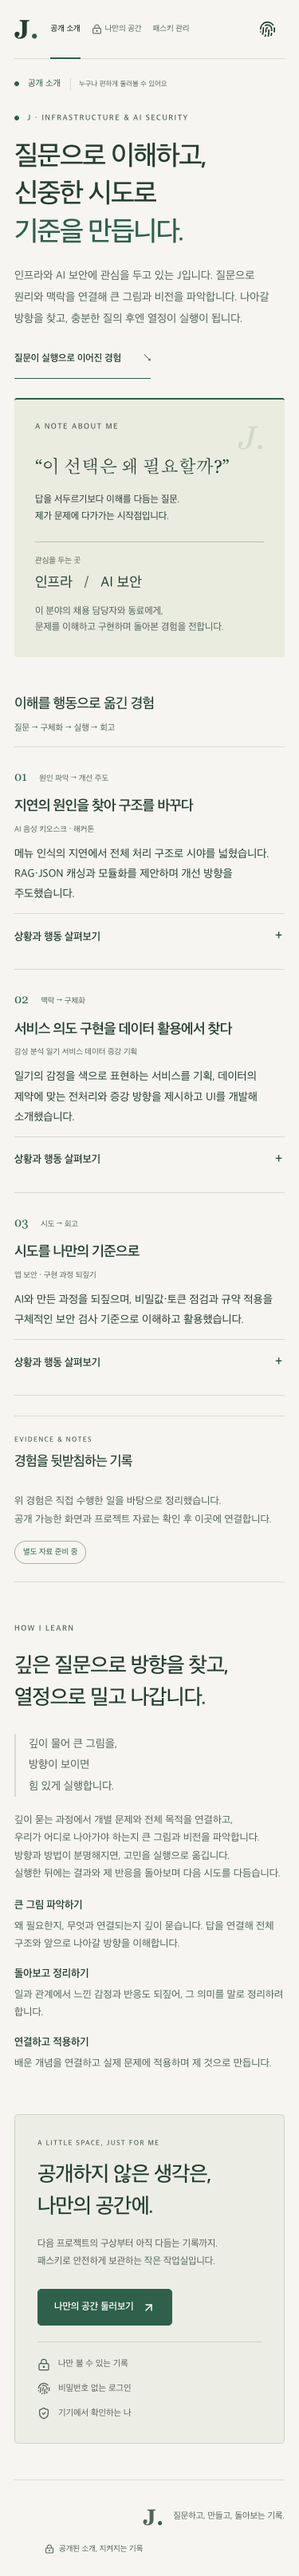
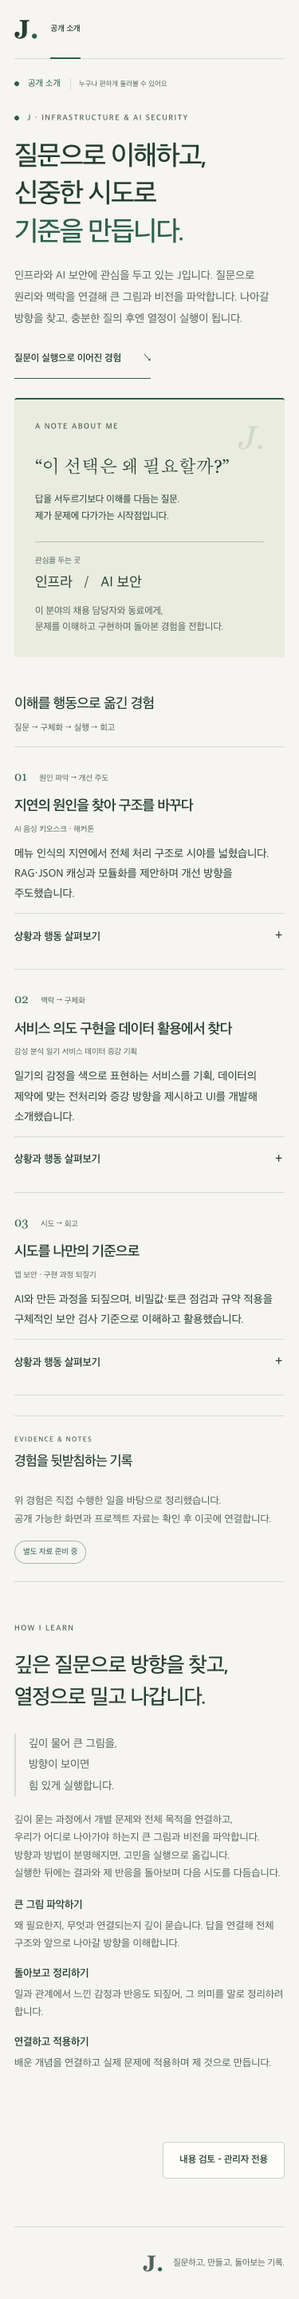
Simplify public page to a single administrator review entry

diff --git a/src/client/styles.css b/src/client/styles.css
@@ -32,16 +32,7 @@ main:focus,h1[tabindex="-1"]:focus { outline:none; }
 .original-profile summary { min-height:44px; }
 .original-profile .text-link { min-height:44px; align-items:center; }
 .original-profile .approach { padding-top:50px; }
-.private-entry { display:grid; grid-template-columns:145px 1fr auto; gap:30px; align-items:center; margin:0 0 70px; padding:42px 40px; border:1px solid #cdd5c4; border-radius:5px; background:#eceee5; }
-.entry-art { width:130px; height:145px; display:grid; place-items:center; position:relative; }
-.art-ring { border:1px solid #b8c6ae; border-radius:50%; height:116px; width:116px; display:grid; place-items:center; color:var(--accent); transform:rotate(-12deg); }
-.art-ring:before { content:""; position:absolute; inset:-12px; border:1px dashed #c1cbb7; border-radius:50%; }
-.art-dot { width:13px; height:13px; border:3px solid #eceee5; background:var(--accent); border-radius:50%; position:absolute; top:20px; right:12px; }
-.entry-copy .eyebrow { font-size:9px; margin:0 0 12px; }
-.entry-copy h2 { font-size:29px; line-height:1.5; }
-.entry-copy>p:not(.eyebrow) { font-size:12px; color:var(--muted); margin:15px 0 23px; line-height:1.85; }
-.entry-notes { display:grid; gap:18px; padding-left:30px; border-left:1px solid #cdd5c4; font-size:11px; color:var(--muted); }
-.entry-notes span { display:flex; align-items:center; gap:10px; }
+.admin-review-entry { display:flex; justify-content:flex-end; margin:35px 0 60px; }
 .button { min-height:46px; padding:12px 20px; display:inline-flex; gap:10px; align-items:center; justify-content:center; font-size:12px; line-height:1.5; text-decoration:none; border-radius:5px; border:1px solid transparent; font-weight:600; transition:background .16s,box-shadow .16s; }
 .button.primary { background:var(--accent); color:#fff; border-color:var(--accent); }
 .button.primary:hover:not(:disabled) { background:#234e3c; box-shadow:0 3px 9px #253d3312; }
@@ -166,7 +157,7 @@ main:focus,h1[tabindex="-1"]:focus { outline:none; }
 .site-footer { margin-top:25px; min-height:85px; padding-block:25px; }
 .footer-security { display:flex; gap:6px; align-items:center; margin-left:auto; font-size:10px; color:var(--muted); }
 @media(min-width:1600px) { .app-header { min-height:96px; } .app-header nav a.active:after { bottom:-25px; } }
-@media(max-width:1050px) { .auth-page { gap:45px; grid-template-columns:1fr 390px; } .auth-intro h1 { font-size:37px; } .private-entry { grid-template-columns:110px 1fr; padding:35px 30px; } .entry-art { width:100px; } .art-ring { width:90px; height:90px; } .entry-notes { grid-column:2; display:flex; flex-wrap:wrap; padding:20px 0 0; border:0; } .keys-layout { grid-template-columns:1fr 310px; gap:25px; } .backup-callout { flex-wrap:wrap; } .backup-callout .button { margin-left:62px; } .private-card { padding:22px; } }
-@media(max-width:800px) { .wrap { width:calc(100% - 40px); } .app-header { gap:20px; min-height:78px; } .app-header nav { gap:18px; } .app-header nav a { font-size:11px; } .app-header nav a.active:after { bottom:-17px; } .header-end { margin-left:auto; } .auth-page { grid-template-columns:1fr; gap:30px; max-width:520px; padding:25px 0 55px; } .auth-intro .back-link { margin-bottom:20px; } .auth-intro h1 { font-size:36px; } .auth-intro>p:not(.eyebrow) { font-size:13px; } .auth-principle { display:none; } .auth-card { padding:27px; } .keys-layout { grid-template-columns:1fr; } .add-key-card { max-width:none; } .private-grid { grid-template-columns:1fr; } .private-card { padding:25px; } .private-card>p:not(.eyebrow) { font-size:13px; } .private-card .note-icon { margin-bottom:20px; } .vault-bottom { align-items:flex-start; flex-direction:column; } .page-heading { padding-top:36px; } .page-heading h1 { font-size:30px; } .heading-with-action { align-items:flex-start; } .private-pill { margin-top:10px; } .key-count { font-size:33px; gap:7px; padding-left:16px; } .key-count span { font-size:10px; } .backup-callout { padding:22px; gap:14px; align-items:flex-start; } .backup-callout>div:nth-child(2) { flex:1; } .backup-callout p { font-size:12px; line-height:1.9; } .backup-callout .button { margin-left:59px; } .original-profile .intro { padding-top:25px; } .original-profile .intro h1 { font-size:38px; } .original-profile .card-summary { font-size:14px; } .entry-copy h2 { font-size:27px; } .entry-notes { gap:14px; } .entry-copy>p:not(.eyebrow) { font-size:12px; } .private-entry { margin-bottom:45px; } .site-footer { flex-wrap:wrap; } .site-footer .footer-security { margin-left:auto; } }
-@media(max-width:520px) { .wrap { width:calc(100% - 36px); } .app-header { gap:15px; min-height:74px; flex-wrap:wrap; } .app-header .wordmark { font-size:33px; } .app-header nav { gap:14px; flex:1; } .app-header nav a { font-size:10px; white-space:nowrap; gap:4px; } .app-header nav a.active:after { bottom:-15px; } .header-login,.logout-button { min-width:44px; width:44px; } .header-login>span,.header-login>svg:last-child,.logout-button>span { display:none; } .header-login>svg:first-child,.logout-button>svg { width:21px; height:21px; } .header-end { margin:0; } .public-label { padding-top:22px; } .public-label>span:last-child { font-size:9px; margin-left:7px; padding-left:10px; } .original-profile .intro h1 { font-size:35px; } .original-profile .field-note { padding:26px; } .private-entry { grid-template-columns:1fr; padding:28px; gap:20px; } .entry-art { display:none; } .entry-notes { grid-column:auto; border-top:1px solid #cdd5c4; padding-top:18px; display:grid; gap:12px; } .entry-copy h2 { font-size:27px; } .footer-security { flex-basis:100%; padding-left:38px; } .heading-with-action { flex-wrap:wrap; gap:10px; } .private-pill { margin:0; } .vault-strip { flex-wrap:wrap; gap:4px; } .locked-panel { padding:30px 18px; } .locked-panel h2 { font-size:25px; } .locked-panel>p { font-size:11px; } .privacy-line { font-size:9px; align-items:flex-start; } .privacy-line svg { flex-shrink:0; } .page-heading h1 { font-size:28px; } .page-heading p:not(.eyebrow) { font-size:12px; } .auth-card { padding:25px; } .auth-intro h1 { font-size:35px; } .backup-callout .button { margin-left:0; width:100%; } .backup-callout .callout-icon { width:39px; height:39px; } .key-count { padding-left:0; border:0; font-size:28px; } .list-heading span { font-size:9px; } .key-info h3 { font-size:13px; } .passkey-list li { gap:11px; } .key-icon { width:43px; height:43px; } }
+@media(max-width:1050px) { .auth-page { gap:45px; grid-template-columns:1fr 390px; } .auth-intro h1 { font-size:37px; } .keys-layout { grid-template-columns:1fr 310px; gap:25px; } .backup-callout { flex-wrap:wrap; } .backup-callout .button { margin-left:62px; } .private-card { padding:22px; } }
+@media(max-width:800px) { .wrap { width:calc(100% - 40px); } .app-header { gap:20px; min-height:78px; } .app-header nav { gap:18px; } .app-header nav a { font-size:11px; } .app-header nav a.active:after { bottom:-17px; } .header-end { margin-left:auto; } .auth-page { grid-template-columns:1fr; gap:30px; max-width:520px; padding:25px 0 55px; } .auth-intro .back-link { margin-bottom:20px; } .auth-intro h1 { font-size:36px; } .auth-intro>p:not(.eyebrow) { font-size:13px; } .auth-principle { display:none; } .auth-card { padding:27px; } .keys-layout { grid-template-columns:1fr; } .add-key-card { max-width:none; } .private-grid { grid-template-columns:1fr; } .private-card { padding:25px; } .private-card>p:not(.eyebrow) { font-size:13px; } .private-card .note-icon { margin-bottom:20px; } .vault-bottom { align-items:flex-start; flex-direction:column; } .page-heading { padding-top:36px; } .page-heading h1 { font-size:30px; } .heading-with-action { align-items:flex-start; } .private-pill { margin-top:10px; } .key-count { font-size:33px; gap:7px; padding-left:16px; } .key-count span { font-size:10px; } .backup-callout { padding:22px; gap:14px; align-items:flex-start; } .backup-callout>div:nth-child(2) { flex:1; } .backup-callout p { font-size:12px; line-height:1.9; } .backup-callout .button { margin-left:59px; } .original-profile .intro { padding-top:25px; } .original-profile .intro h1 { font-size:38px; } .original-profile .card-summary { font-size:14px; } .site-footer { flex-wrap:wrap; } .site-footer .footer-security { margin-left:auto; } }
+@media(max-width:520px) { .wrap { width:calc(100% - 36px); } .app-header { gap:15px; min-height:74px; flex-wrap:wrap; } .app-header .wordmark { font-size:33px; } .app-header nav { gap:14px; flex:1; } .app-header nav a { font-size:10px; white-space:nowrap; gap:4px; } .app-header nav a.active:after { bottom:-15px; } .header-login,.logout-button { min-width:44px; width:44px; } .header-login>span,.header-login>svg:last-child,.logout-button>span { display:none; } .header-login>svg:first-child,.logout-button>svg { width:21px; height:21px; } .header-end { margin:0; } .public-label { padding-top:22px; } .public-label>span:last-child { font-size:9px; margin-left:7px; padding-left:10px; } .original-profile .intro h1 { font-size:35px; } .original-profile .field-note { padding:26px; } .footer-security { flex-basis:100%; padding-left:38px; } .heading-with-action { flex-wrap:wrap; gap:10px; } .private-pill { margin:0; } .vault-strip { flex-wrap:wrap; gap:4px; } .locked-panel { padding:30px 18px; } .locked-panel h2 { font-size:25px; } .locked-panel>p { font-size:11px; } .privacy-line { font-size:9px; align-items:flex-start; } .privacy-line svg { flex-shrink:0; } .page-heading h1 { font-size:28px; } .page-heading p:not(.eyebrow) { font-size:12px; } .auth-card { padding:25px; } .auth-intro h1 { font-size:35px; } .backup-callout .button { margin-left:0; width:100%; } .backup-callout .callout-icon { width:39px; height:39px; } .key-count { padding-left:0; border:0; font-size:28px; } .list-heading span { font-size:9px; } .key-info h3 { font-size:13px; } .passkey-list li { gap:11px; } .key-icon { width:43px; height:43px; } }
 @media(prefers-reduced-motion:reduce) { html { scroll-behavior:auto; } *,*::before,*::after { animation:none!important; transition:none!important; } }

diff --git a/src/client/App.tsx b/src/client/App.tsx
@@ -12,6 +12,7 @@ import { Status } from './shared/components.js';
 function Layout() {
   const { session, logout, logoutError } = useSession();
   const location = useLocation();
+  const publicPage = location.pathname === '/';
   const navigate = useNavigate();
   const [loggingOut, setLoggingOut] = useState(false);
   useEffect(() => {
@@ -27,15 +28,15 @@ function Layout() {
   return <>
     <a className="skip-link" href="#main">본문으로 이동</a>
     <header className="site-header wrap app-header"><Link className="wordmark" to="/" aria-label="J 공개 소개로 이동">J<span className="mark-dot" aria-hidden="true">.</span></Link>
-      <nav aria-label="주요 메뉴"><NavLink end to="/">공개 소개</NavLink><NavLink to="/vault"><LockKeyhole size={13} aria-hidden="true" /> 나만의 공간</NavLink><NavLink to="/passkeys">패스키 관리</NavLink></nav>
-      <div className="header-end">{session.user ? <button className="logout-button" aria-label="로그아웃" onClick={() => void signOut()} disabled={loggingOut}><LogOut size={14} aria-hidden="true" /><span>{loggingOut ? '잠그는 중…' : '로그아웃'}</span></button> : <Link className="header-login" aria-label="패스키 로그인" to="/login"><Fingerprint size={15} aria-hidden="true" /><span>로그인</span><ArrowUpRight size={13} aria-hidden="true" /></Link>}</div>
+      <nav aria-label="주요 메뉴"><NavLink end to="/">공개 소개</NavLink>{!publicPage && <><NavLink to="/vault"><LockKeyhole size={13} aria-hidden="true" /> 나만의 공간</NavLink><NavLink to="/passkeys">패스키 관리</NavLink></>}</nav>
+      {!publicPage && <div className="header-end">{session.user ? <button className="logout-button" aria-label="로그아웃" onClick={() => void signOut()} disabled={loggingOut}><LogOut size={14} aria-hidden="true" /><span>{loggingOut ? '잠그는 중…' : '로그아웃'}</span></button> : <Link className="header-login" aria-label="패스키 로그인" to="/login"><Fingerprint size={15} aria-hidden="true" /><span>로그인</span><ArrowUpRight size={13} aria-hidden="true" /></Link>}</div>}
     </header>
     {logoutError && <div className="wrap"><Status message={logoutError} kind="error" /><button className="button secondary" onClick={() => void signOut()}>로그아웃 재시도</button></div>}
     <main id="main" className="wrap app-main" tabIndex={-1}><Routes>
       <Route path="/" element={<ProfilePage />} /><Route path="/vault" element={<VaultPage />} /><Route path="/passkeys" element={<PasskeysPage />} /><Route path="/login" element={<LoginPage />} /><Route path="/setup" element={<SetupPage />} />
       <Route path="*" element={<section className="not-found"><p className="eyebrow">404 · A DIFFERENT PATH</p><h1>이곳에는 아직 기록이 없어요.</h1><p>주소를 확인하거나 공개 소개로 돌아가 주세요.</p><Link className="button primary" to="/">공개 소개로</Link></section>} />
     </Routes></main>
-    <footer className="site-footer wrap"><Link className="wordmark" to="/" aria-label="J 공개 소개">J<span className="mark-dot" aria-hidden="true">.</span></Link><p>질문하고, 만들고, 돌아보는 기록.</p><span className="footer-security"><LockKeyhole size={12} aria-hidden="true" /> 공개된 소개, 지켜지는 기록</span></footer>
+    <footer className="site-footer wrap"><Link className="wordmark" to="/" aria-label="J 공개 소개">J<span className="mark-dot" aria-hidden="true">.</span></Link><p>질문하고, 만들고, 돌아보는 기록.</p>{!publicPage && <span className="footer-security"><LockKeyhole size={12} aria-hidden="true" /> 공개된 소개, 지켜지는 기록</span>}</footer>
   </>;
 }
 export function App() { return <BrowserRouter><SessionProvider><Layout /></SessionProvider></BrowserRouter>; }

diff --git a/src/client/public-profile/ProfilePage.tsx b/src/client/public-profile/ProfilePage.tsx
@@ -1,18 +1,10 @@
-import { ArrowUpRight, Fingerprint, LockKeyhole, ShieldCheck } from 'lucide-react';
 import { Link } from 'react-router-dom';
 import content from './content.html?raw';
-import { useSession } from '../shared/session.js';
 
 export function ProfilePage() {
-  const { session } = useSession();
   return <>
     <div className="public-label"><span className="status-dot" aria-hidden="true" /> 공개 소개 <span>누구나 편하게 둘러볼 수 있어요</span></div>
     <div className="original-profile" dangerouslySetInnerHTML={{ __html: content }} />
-    <section className="private-entry" aria-labelledby="entry-title">
-      <div className="entry-art" aria-hidden="true"><div className="art-ring"><Fingerprint strokeWidth={1} size={62} /></div><span className="art-dot" /></div>
-      <div className="entry-copy"><p className="eyebrow">A LITTLE SPACE, JUST FOR ME</p><h2 id="entry-title">공개하지 않은 생각은,<br />나만의 공간에.</h2><p>다음 프로젝트의 구상부터 아직 다듬는 기록까지.<br />패스키로 안전하게 보관하는 작은 작업실입니다.</p>
-        <Link to="/vault" className="button primary">{session.user ? '나의 기록 열기' : '나만의 공간 둘러보기'} <ArrowUpRight size={17} aria-hidden="true" /></Link></div>
-      <div className="entry-notes"><span><LockKeyhole size={16} aria-hidden="true" /> 나만 볼 수 있는 기록</span><span><Fingerprint size={16} aria-hidden="true" /> 비밀번호 없는 로그인</span><span><ShieldCheck size={16} aria-hidden="true" /> 기기에서 확인하는 나</span></div>
-    </section>
+    <div className="admin-review-entry"><Link to="/vault" className="button secondary">내용 검토 - 관리자 전용</Link></div>
   </>;
 }
